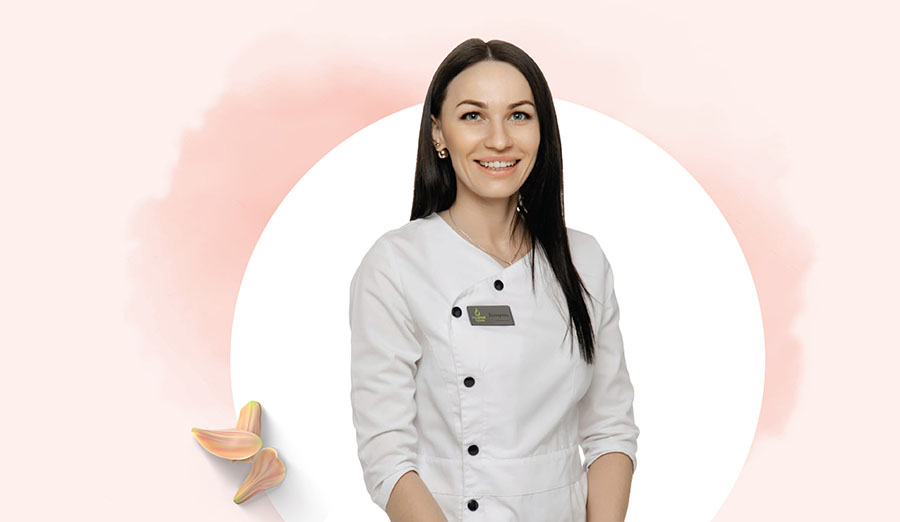
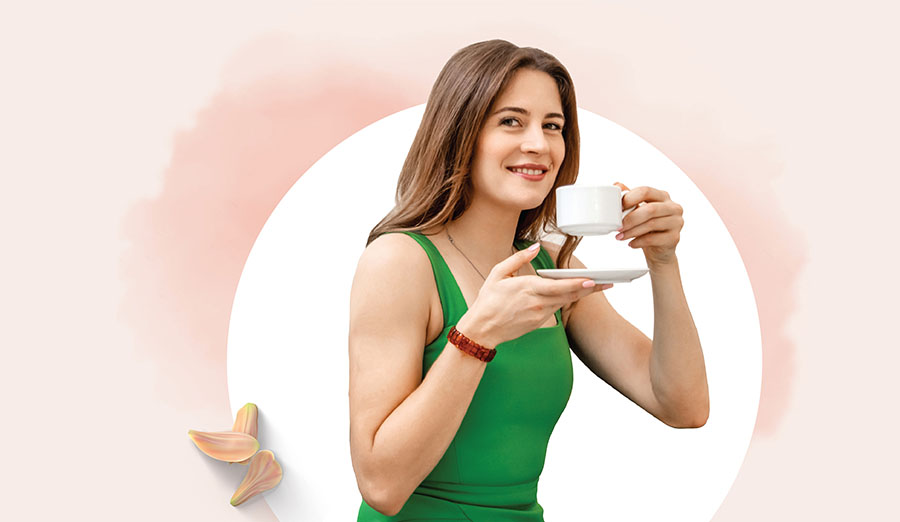
Новая фотка

diff --git a/template-parts/header-actions.php b/template-parts/header-actions.php
@@ -6,7 +6,7 @@
 	<?php endif;?>
 
 
-<section class="action-header" style = "background-color: #fdf0ed;">
+<section class="action-header" style = "background-color: #f7ece8;">
 	<div class="container">
 		<div class="action-header__content">
 			<span class = "sTop">Программа лояльности</span> <span class = "sCenter">для постоянных клиентов</span> <span class = "sBoot">«Verbena - Premium»</span>
